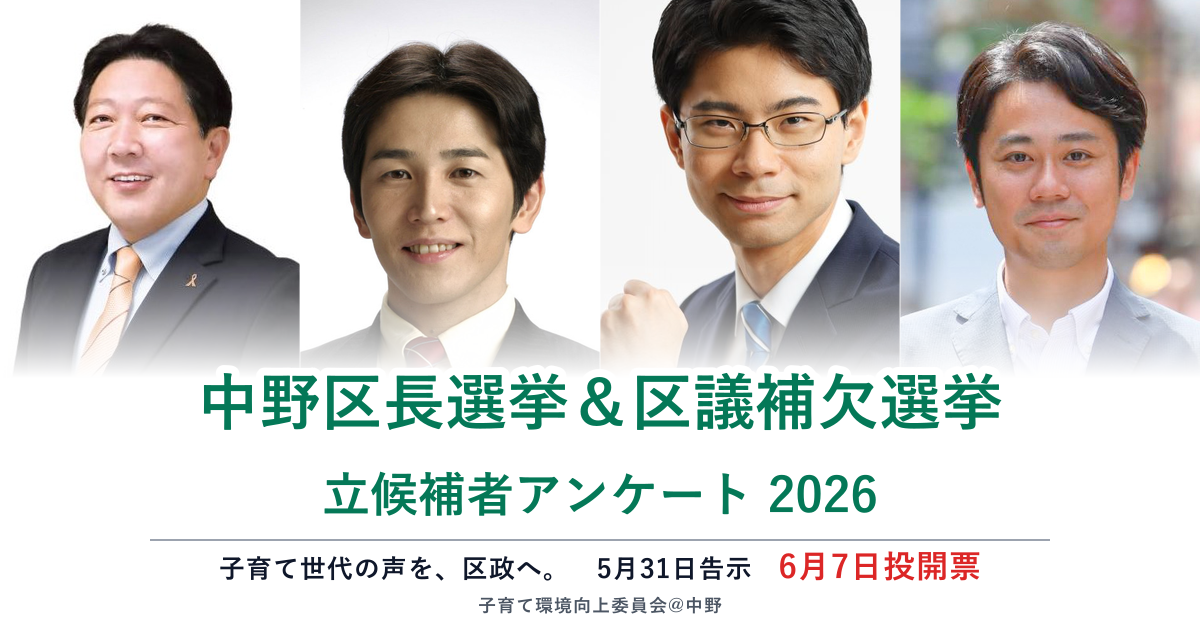
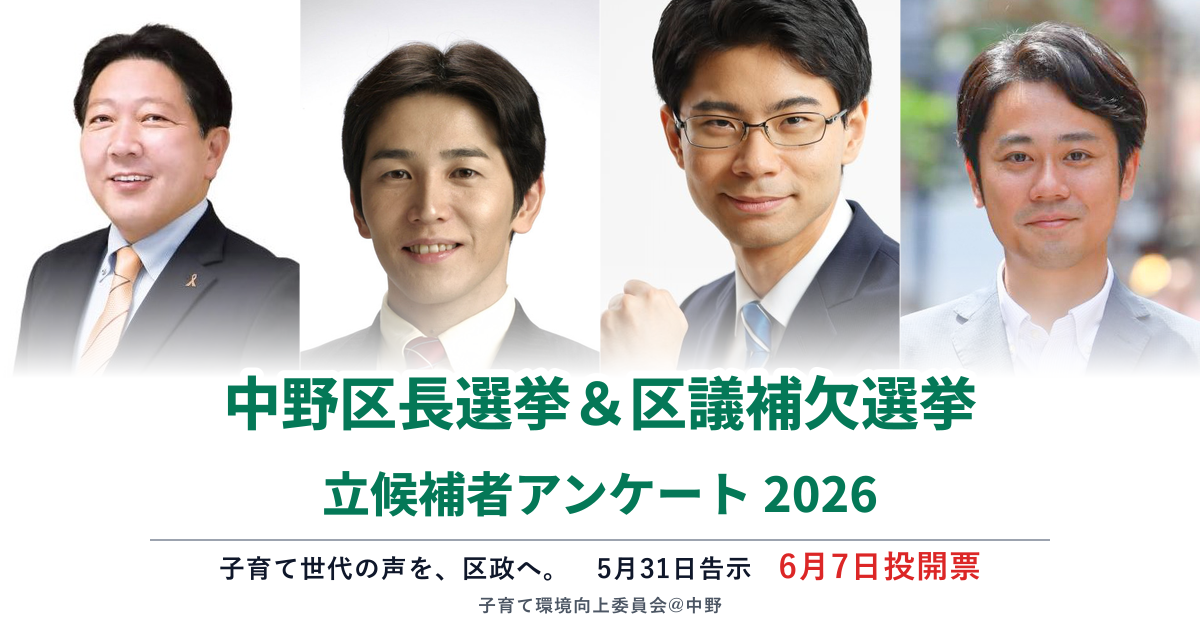
ogp画像のフォントを更新

Changed region(s): [[0.1542, 0.573, 0.8325, 0.6937], [0.2775, 0.754, 0.74, 0.8143]]

diff --git a/download_font.js b/download_font.js
@@ -1,0 +1,44 @@
+const fs = require("fs");
+const path = require("path");
+const axios = require("axios");
+const sharp = require("sharp");
+
+const fontDir = path.join(__dirname, "static", "fonts");
+const fontPath = path.join(fontDir, "DelaGothicOne-Regular.ttf");
+const fontUrl = "https://raw.githubusercontent.com/google/fonts/main/ofl/delagothicone/DelaGothicOne-Regular.ttf";
+
+async function run() {
+  if (!fs.existsSync(fontDir)) {
+    fs.mkdirSync(fontDir, { recursive: true });
+  }
+
+  if (!fs.existsSync(fontPath)) {
+    console.log("Downloading Dela Gothic One font...");
+    const response = await axios({
+      method: "get",
+      url: fontUrl,
+      responseType: "stream"
+    });
+    
+    const writer = fs.createWriteStream(fontPath);
+    response.data.pipe(writer);
+    
+    await new Promise((resolve, reject) => {
+      writer.on("finish", resolve);
+      writer.on("error", reject);
+    });
+    console.log("Font downloaded successfully!");
+  } else {
+    console.log("Font already exists.");
+  }
+
+  // Register font in Sharp
+  try {
+    sharp.registerFont(fontPath, { family: "Dela Gothic One" });
+    console.log("Font registered successfully in Sharp!");
+  } catch (e) {
+    console.error("Error registering font:", e.message);
+  }
+}
+
+run().catch(console.error);

diff --git a/download_noto.js b/download_noto.js
@@ -1,0 +1,31 @@
+const fs = require("fs");
+const path = require("path");
+const axios = require("axios");
+
+const fontDir = path.join(__dirname, "static", "fonts");
+const fontPath = path.join(fontDir, "NotoSansJP-Variable.ttf");
+const fontUrl = "https://raw.githubusercontent.com/google/fonts/main/ofl/notosansjp/NotoSansJP%5Bwght%5D.ttf";
+
+async function run() {
+  if (!fs.existsSync(fontDir)) {
+    fs.mkdirSync(fontDir, { recursive: true });
+  }
+
+  console.log("Downloading Noto Sans JP Variable font...");
+  const response = await axios({
+    method: "get",
+    url: fontUrl,
+    responseType: "stream"
+  });
+  
+  const writer = fs.createWriteStream(fontPath);
+  response.data.pipe(writer);
+  
+  await new Promise((resolve, reject) => {
+    writer.on("finish", resolve);
+    writer.on("error", reject);
+  });
+  console.log("Noto Sans JP downloaded successfully at " + fontPath);
+}
+
+run().catch(console.error);

diff --git a/generate_ogp.js b/generate_ogp.js
@@ -58,8 +58,8 @@ async function generate() {
   const textSvg = Buffer.from(`
 <svg width="1200" height="630" viewBox="0 0 1200 630" xmlns="http://www.w3.org/2000/svg">
   <style>
-    .title-large-1 { font-family: 'Yu Gothic', 'Meiryo', 'MS Gothic', sans-serif; font-size: 62px; font-weight: 900; }
-    .title-large-2 { font-family: 'Yu Gothic', 'Meiryo', 'MS Gothic', sans-serif; font-size: 48px; font-weight: 900; }
+    .title-large-1 { font-family: 'Noto Sans JP', 'Noto Sans CJK JP', 'Yu Gothic', sans-serif; font-size: 58px; font-weight: 800; }
+    .title-large-2 { font-family: 'Noto Sans JP', 'Noto Sans CJK JP', 'Yu Gothic', sans-serif; font-size: 48px; font-weight: 800; }
     .title-medium { font-family: 'Yu Gothic', 'Meiryo', 'MS Gothic', sans-serif; font-size: 26px; font-weight: bold; fill: #0f172a; }
     .title-small { font-family: 'Yu Gothic', 'Meiryo', 'MS Gothic', sans-serif; font-size: 18px; fill: #4b5563; font-weight: bold; }
   </style>